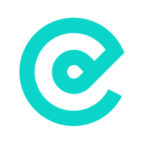
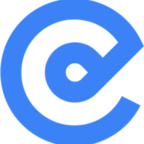
BLRE-16

diff --git a/tailwind.config.js b/tailwind.config.js
@@ -1,4 +1,5 @@
 const defaultTheme = require("tailwindcss/defaultTheme");
+const colors = require("tailwindcss/colors");
 
 module.exports = {
     content: ["./src/**/*.{js,jsx,ts,tsx}"],
@@ -8,11 +9,7 @@ module.exports = {
                 nunito: ["Nunito", ...defaultTheme.fontFamily.sans],
             },
             colors: {
-                encacap: {
-                    300: "#C0FCF7",
-                    500: "#0CD4CC",
-                    700: "#009C96",
-                },
+                encacap: colors.blue,
             },
         },
     },
